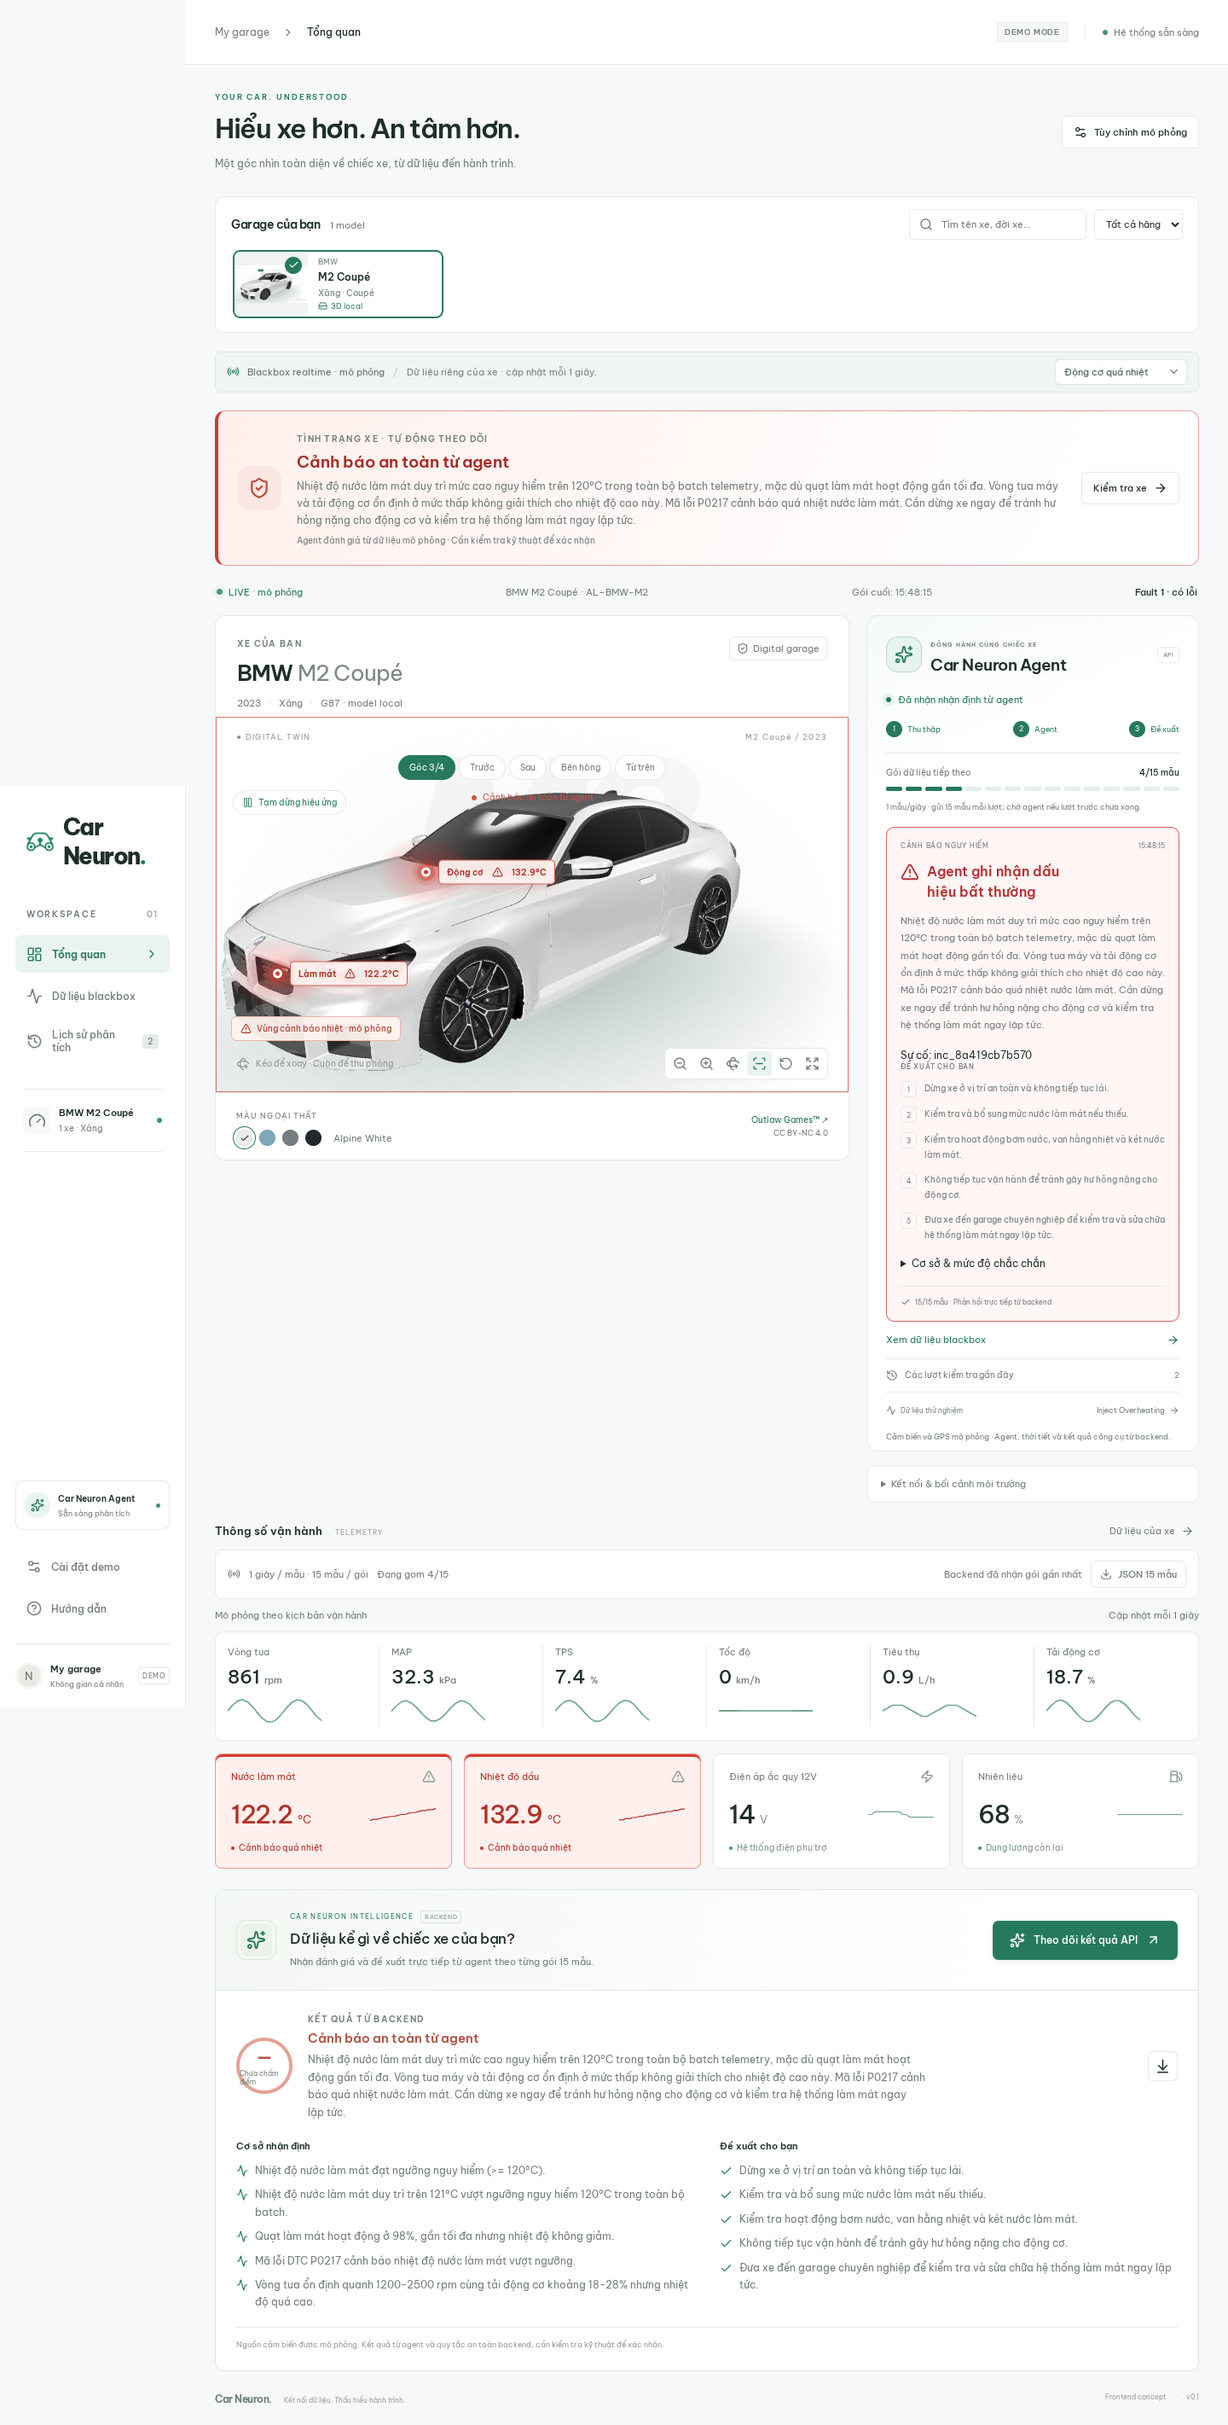
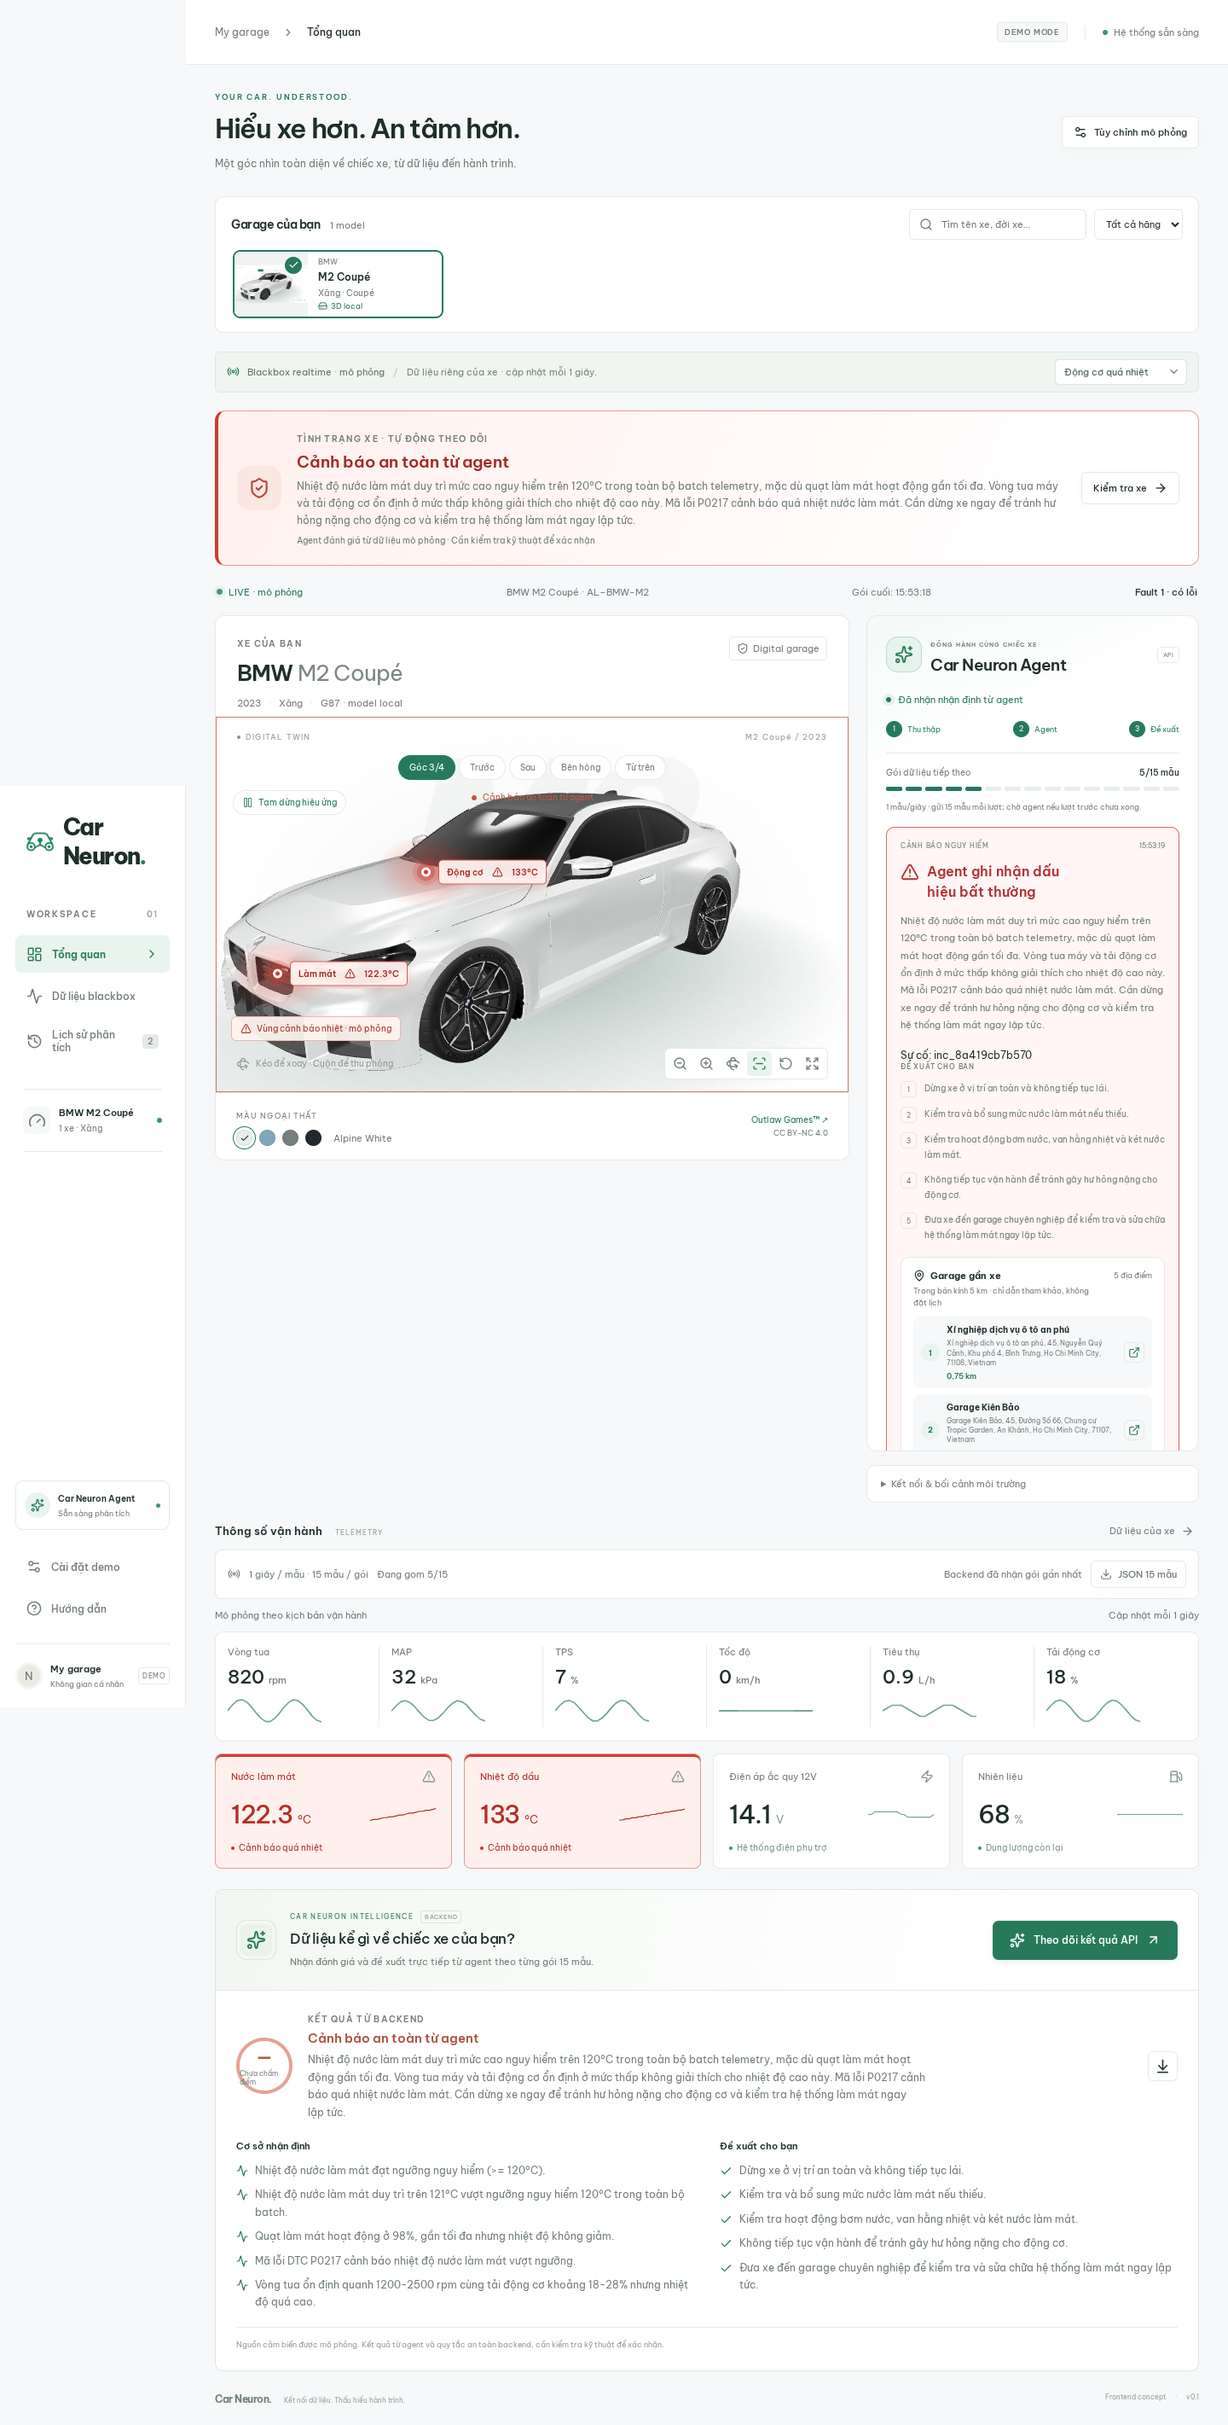
feat: show nearby garages for vehicle alerts

diff --git a/frontend/src/components/backend-agent-panel.tsx b/frontend/src/components/backend-agent-panel.tsx
@@ -1,5 +1,5 @@
 "use client";
-import {Activity,ArrowRight,Check,Clock3,History,LoaderCircle,Radio,ShieldCheck,Sparkles,TriangleAlert,WifiOff} from 'lucide-react';
+import {Activity,ArrowRight,Check,Clock3,ExternalLink,History,LoaderCircle,MapPin,Radio,ShieldCheck,Sparkles,TriangleAlert,WifiOff} from 'lucide-react';
 import type {BackendState} from '@/lib/backend/contract';
 import type {BlackboxTransfer} from '@/lib/blackbox/types';
 const time=(value:string)=>new Date(value).toLocaleTimeString('vi-VN');
@@ -7,6 +7,7 @@ export default function BackendAgentPanel({state,transfer,connected,onInject,onV
  const {reply,incident}=state;const busy=state.phase==='sending';const a=reply?.latest.assessment;
  const severity=a?.severity??'normal';const phase=!connected?'paused':state.phase;
  const environment=reply?.latest.tool_trace.find(t=>t.tool==='get_external_environment_context')?.result;
+ const nearbyGarages=reply?.latest.tool_trace.find(t=>t.tool==='search_nearby_garages')?.result.options??[];
  const status=!connected?'Blackbox ngoại tuyến':busy?'Agent đang phân tích 15 mẫu':phase==='error'?'Chưa nhận được kết quả':reply?'Đã nhận nhận định từ agent':'Đang thu thập dữ liệu';
  return <section className={`safety-agent-panel periodic-agent backend-agent severity-${severity}`} aria-label="Vehicle Safety Agent">
   <header className="periodic-agent-heading"><span className="periodic-agent-avatar"><Sparkles size={22}/></span><div><span className="section-kicker">ĐỒNG HÀNH CÙNG CHIẾC XE</span><h2>Car Neuron Agent</h2></div><span className="agent-demo-badge">API</span></header>
@@ -21,6 +22,7 @@ export default function BackendAgentPanel({state,transfer,connected,onInject,onV
     <p>{a.diagnosis}</p>
     {reply.incident&&<small data-testid="backend-incident" data-incident-id={reply.incident.id}>Sự cố: {reply.incident.id}</small>}
     <div className="agent-recommendations"><h4>Đề xuất cho bạn</h4>{a.recommendations.map((text,i)=><div className="agent-recommendation" key={i}><span>{i+1}</span><p>{text}</p></div>)}</div>
+    {nearbyGarages.length>0&&<section className="backend-nearby-garages" data-testid="backend-nearby-garages" aria-label="Garage gần xe"><div className="nearby-garages-heading"><div><h4><MapPin size={14}/>Garage gần xe</h4><p>Trong bán kính 5 km · chỉ dẫn tham khảo, không đặt lịch</p></div><span>{nearbyGarages.length} địa điểm</span></div><ol>{nearbyGarages.map((garage,index)=>{const safeUrl=garage.osm_url&&/^https:\/\/www\.openstreetmap\.org\//.test(garage.osm_url)?garage.osm_url:null;return <li key={garage.place_id||`${garage.latitude}-${garage.longitude}`}><span className="garage-rank">{index+1}</span><div><strong>{garage.name}</strong>{garage.address&&<small>{garage.address}</small>}<b>{garage.distance_km.toLocaleString('vi-VN')} km</b></div>{safeUrl&&<a href={safeUrl} target="_blank" rel="noreferrer" aria-label={`Mở ${garage.name} trên bản đồ`}><ExternalLink size={14}/></a>}</li>})}</ol><small className="garage-provider">Dữ liệu LocationIQ và OpenStreetMap</small></section>}
     {environment?.success&&environment.data&&<dl className="agent-observations"><div><dt>Ngoài trời · Open-Meteo</dt><dd>{environment.data.outside_temperature_c}°C</dd></div><div><dt>Quan sát lúc</dt><dd>{time(environment.data.observed_at)}</dd></div></dl>}
     <details><summary>Cơ sở & mức độ chắc chắn</summary><p>Độ tin cậy do agent tự đánh giá: {Math.round(a.confidence*100)}% · chưa hiệu chuẩn.</p><ul>{a.evidence.map((text,i)=><li key={i}>{text}</li>)}</ul>{a.suspected_faults.length>0&&<p>Khả năng cần kiểm tra: {a.suspected_faults.join('; ')}.</p>}{a.missing_data.length>0&&<p>Dữ liệu còn thiếu: {a.missing_data.join('; ')}.</p>}</details>
     <footer><Check size={12}/>{reply.accepted}/15 mẫu · Phản hồi trực tiếp từ backend</footer>

diff --git a/frontend/src/app/globals.css b/frontend/src/app/globals.css
@@ -3187,3 +3187,18 @@ td:last-child {
 .backend-agent .agent-recommendation p { margin: 0; }
 .backend-agent .agent-response details { font-size: 12px; line-height: 1.6; margin-top: 14px; }
 .backend-open-note { display: block; line-height: 1.6; padding: 10px 0; color: #a13434; }
+.backend-nearby-garages { margin: 16px 0; padding: 14px; border: 1px solid var(--border); border-radius: 10px; background: var(--surface); }
+.nearby-garages-heading { display: flex; justify-content: space-between; gap: 12px; margin-bottom: 10px; }
+.nearby-garages-heading h4 { display: flex; align-items: center; gap: 6px; margin: 0; font-size: 11px; }
+.nearby-garages-heading p, .nearby-garages-heading > span, .garage-provider { color: var(--muted); font-size: 9px; line-height: 1.5; }
+.nearby-garages-heading p { margin: 4px 0 0; }
+.nearby-garages-heading > span { white-space: nowrap; }
+.backend-nearby-garages ol { display: grid; gap: 7px; padding: 0; margin: 0; list-style: none; }
+.backend-nearby-garages li { display: grid; grid-template-columns: 22px minmax(0,1fr) 24px; align-items: center; gap: 8px; padding: 9px; border-radius: 8px; background: var(--bg); }
+.garage-rank { display: grid; place-items: center; width: 22px; height: 22px; border-radius: 50%; background: var(--accent-soft); color: var(--accent); font-size: 9px; font-weight: 650; }
+.backend-nearby-garages li strong, .backend-nearby-garages li small, .backend-nearby-garages li b { display: block; }
+.backend-nearby-garages li strong { font-size: 10px; line-height: 1.4; }
+.backend-nearby-garages li small { margin-top: 3px; color: var(--muted); font-size: 8px; line-height: 1.4; }
+.backend-nearby-garages li b { margin-top: 4px; color: var(--accent); font-size: 9px; font-weight: 600; }
+.backend-nearby-garages li a { display: grid; place-items: center; width: 24px; height: 24px; color: var(--accent); border: 1px solid var(--border); border-radius: 6px; }
+.garage-provider { display: block; margin-top: 9px; }

diff --git a/frontend/src/lib/backend/contract.ts b/frontend/src/lib/backend/contract.ts
@@ -1,7 +1,7 @@
 import type {BlackboxBatch,BlackboxRecord} from '../blackbox/types';
 export type Severity='normal'|'warning'|'critical';
 export type Assessment={severity:Severity;diagnosis:string;suspected_faults:string[];evidence:string[];confidence:number;missing_data:string[];recommendations:string[]};
-export type GarageOption={place_id:string;name:string;address?:string;latitude:number;longitude:number;distance_km:number};
+export type GarageOption={place_id:string;name:string;address?:string;latitude:number;longitude:number;distance_km:number;distance_meters?:number;osm_url?:string};
 export type ToolTrace={tool:string;result:{options?:GarageOption[];error?:unknown;success?:boolean;source?:string;data?:{outside_temperature_c:number;observed_at:string;latitude:number;longitude:number;weather_grid_distance_km:number}}};
 export type Incident={id:string;vehicle_id:string;severity:Severity;status:string;diagnosis:string;assessment:Assessment;reasons:string[];recommendations:string[];created_at:string;tool_trace:ToolTrace[]};
 export type AgentReply={status:'normal'|'incident_created';vehicle_id:string;batch_id:string;accepted_records:number;assessment:Assessment;hard_safety_guardrail:{triggered:boolean;minimum_severity:Severity;reasons:string[]};tool_trace:ToolTrace[];incident?:Incident;memory:{id:string;status:string;expires_at:string}|null;sanitization:{removed_fields:string[];removed_values:number}};

diff --git a/backend/tests/test_openai_agent.py b/backend/tests/test_openai_agent.py
@@ -126,13 +126,19 @@ def test_agent_receives_batch_safety_and_short_term_memory(monkeypatch) -> None:
 
 
 def test_hard_safety_guardrail_cannot_be_downgraded(monkeypatch) -> None:
+    garage_calls = []
     monkeypatch.setattr(
         orchestrator.Runner,
         "run_sync",
         lambda *args, **kwargs: SimpleNamespace(final_output=_normal_assessment()),
     )
+    monkeypatch.setattr(
+        orchestrator,
+        "search_nearby_garages",
+        lambda **kwargs: garage_calls.append(kwargs) or {"options": []},
+    )
 
-    assessment, _, safety = orchestrator.vehicle_agent._run_analysis(
+    assessment, trace, safety = orchestrator.vehicle_agent._run_analysis(
         _telemetry_context(coolant=125),
         None,
     )
@@ -140,3 +146,38 @@ def test_hard_safety_guardrail_cannot_be_downgraded(monkeypatch) -> None:
     assert safety["minimum_severity"] == "critical"
     assert assessment.severity == Severity.CRITICAL
     assert assessment.recommendations[0].startswith("Dừng xe")
+    assert garage_calls == [
+        {
+            "latitude": 10.7769,
+            "longitude": 106.7009,
+            "radius_meters": 5_000,
+            "max_results": 5,
+        }
+    ]
+    assert trace[-1]["tool"] == "search_nearby_garages"
+
+
+def test_existing_agent_garage_lookup_is_not_duplicated(monkeypatch) -> None:
+    warning = _normal_assessment().model_copy(
+        update={"severity": Severity.WARNING}
+    )
+
+    def fake_run_sync(*args, context, **kwargs):
+        context.trace.append(
+            {"tool": "search_nearby_garages", "arguments": {}, "result": {}}
+        )
+        return SimpleNamespace(final_output=warning)
+
+    monkeypatch.setattr(orchestrator.Runner, "run_sync", fake_run_sync)
+    monkeypatch.setattr(
+        orchestrator,
+        "search_nearby_garages",
+        lambda **kwargs: (_ for _ in ()).throw(AssertionError("duplicate lookup")),
+    )
+
+    _, trace, _ = orchestrator.vehicle_agent._run_analysis(
+        _telemetry_context(),
+        None,
+    )
+
+    assert [item["tool"] for item in trace].count("search_nearby_garages") == 1

diff --git a/backend/agent/orchestrator.py b/backend/agent/orchestrator.py
@@ -7,6 +7,7 @@ from agents import Agent, ModelSettings, Runner
 
 from agent.prompt import build_agent_instructions
 from agent.safety import evaluate_hard_safety
+from agent.tools.garage_search import search_nearby_garages
 from agent.tools import (
     VEHICLE_READ_TOOLS,
     VehicleToolContext,
@@ -97,7 +98,46 @@ class VehicleAgent:
         if not isinstance(result.final_output, VehicleAssessment):
             raise RuntimeError("OpenAI agent returned an invalid vehicle assessment")
         assessment = self._enforce_safety_floor(result.final_output, safety)
+        self._ensure_nearby_garages(assessment, telemetry_context, context.trace)
         return assessment, context.trace, safety.model_dump(mode="json")
+
+    @staticmethod
+    def _ensure_nearby_garages(
+        assessment: VehicleAssessment,
+        telemetry_context: dict[str, Any],
+        trace: list[dict[str, Any]],
+    ) -> None:
+        """Always attempt a nearby-garage lookup for a final warning or critical result."""
+        if assessment.severity == Severity.NORMAL or any(
+            item.get("tool") == "search_nearby_garages" for item in trace
+        ):
+            return
+
+        location = telemetry_context.get("current_location") or {}
+        latitude = location.get("latitude")
+        longitude = location.get("longitude")
+        if not isinstance(latitude, (int, float)) or not isinstance(
+            longitude, (int, float)
+        ):
+            return
+
+        arguments = {
+            "latitude": latitude,
+            "longitude": longitude,
+            "radius_meters": 5_000,
+            "max_results": 5,
+        }
+        try:
+            result = search_nearby_garages(**arguments)
+        except Exception as error:
+            result = {"error": str(error)}
+        trace.append(
+            {
+                "tool": "search_nearby_garages",
+                "arguments": arguments,
+                "result": result,
+            }
+        )
 
     def analyze_telemetry_context(
         self,

diff --git a/frontend/docs/backend-mvp-integration.md b/frontend/docs/backend-mvp-integration.md
@@ -27,6 +27,7 @@ Next.js defaults to `http://127.0.0.1:8000`; optional server-only `BACKEND_URL` 
 - The payload remains the sensor-only blackbox schema (`schemaVersion`, `batchId`, `vehicleId`, `source`, `sampleIntervalMs`, `recordCount`, `records`). Raw units stay raw; no unit reinterpretation or frontend weather/diagnosis is inserted.
 - Backend validates records, strips `fault` before agent input, evaluates deterministic safety guardrails, and calls the agent with short-term incident memory. The old ML/sliding-window stage has been removed by the backend team.
 - The frontend displays the returned `assessment` (severity, diagnosis, evidence, suspected faults, confidence, missing data, recommendations), tool weather, incident identity and memory context. Confidence is the agent's self-assessment, not a calibrated probability or health score.
+- For every final `warning` or `critical` assessment with valid GPS, the backend ensures one LocationIQ garage lookup within 5 km even when the model did not request the tool. The frontend shows the returned locations ordered by distance with OpenStreetMap links; it does not offer booking.
 - Readings continue while the agent works. If a call exceeds 15 seconds, the frontend skips completed batches while busy, reports the count, and resumes at the next full batch. Reply timing therefore includes backend/AI latency. It does not send overlapping requests or accumulate a backlog.
 - Offline/scenario change/disposal invalidates pending UI responses. Already accepted backend work cannot be undone by cancelling a browser request. A failed POST is not automatically replayed; the next fresh batch may be sent normally.
 
@@ -34,7 +35,7 @@ The gateway is only a same-origin local adapter (no CORS changes or browser API 
 
 ## MVP scope
 
-Appointment booking and reminders are intentionally omitted from the frontend MVP. The backend action endpoints remain owned by the backend team, but the Next.js gateway does not expose them and the dashboard does not call them. Google OAuth is not required for the current telemetry and assessment flow.
+Appointment booking and reminders are intentionally omitted from the frontend MVP. Nearby garages are informational only. The backend action endpoints remain owned by the backend team, but the Next.js gateway does not expose them and the dashboard does not call them. Google OAuth is not required for the current telemetry and assessment flow.
 
 ## Verification
 

diff --git a/backend/AGENT.md b/backend/AGENT.md
@@ -2,7 +2,7 @@
 
 1. **Purpose:** Evaluate a validated ECU telemetry batch directly and suggest safe next actions without an ML prediction stage.
 2. **Skill:** Load `skills/chan-doan-dong-co/SKILL.md` into the agent instructions so the diagnostic knowledge is actually available at runtime.
-3. **Tools:** Read outside temperature at the final batch coordinate, read maintenance history, and find nearby garages only when an issue is suspected.
+3. **Tools:** Read outside temperature at the final batch coordinate and maintenance history. For every final warning/critical assessment with valid GPS, ensure one nearby-garage lookup within 5 km and return up to five results ordered by distance.
 4. **Memory:** Load active short-term incident memory from SQLite before each run. Create or refresh memory only for warning/critical assessments, and expire it using the configured TTL.
 5. **Safety:** Deterministic backend guardrails set a minimum severity that the model cannot downgrade.
 6. **Actions:** Booking and reminder writes stay outside the agent and require explicit confirmation through the API.

diff --git a/frontend/README.md b/frontend/README.md
@@ -2,6 +2,6 @@
 
 Car Neuron is a vehicle health dashboard featuring an interactive local 3D car, simulated blackbox telemetry, and an AI agent for explaining vehicle alerts and suggesting next steps.
 
-Built with Next.js, React, TypeScript, and Three.js, the frontend sends 15 sensor readings to a Python backend every 15 seconds and displays the returned vehicle assessment.
+Built with Next.js, React, TypeScript, and Three.js, the frontend sends 15 sensor readings to a Python backend every 15 seconds and displays the returned vehicle assessment. Warning and critical results can include nearby garages for reference without booking.
 
 Sensor data is simulated. Agent analysis uses the connected backend. See [local setup and API integration](docs/backend-mvp-integration.md).
